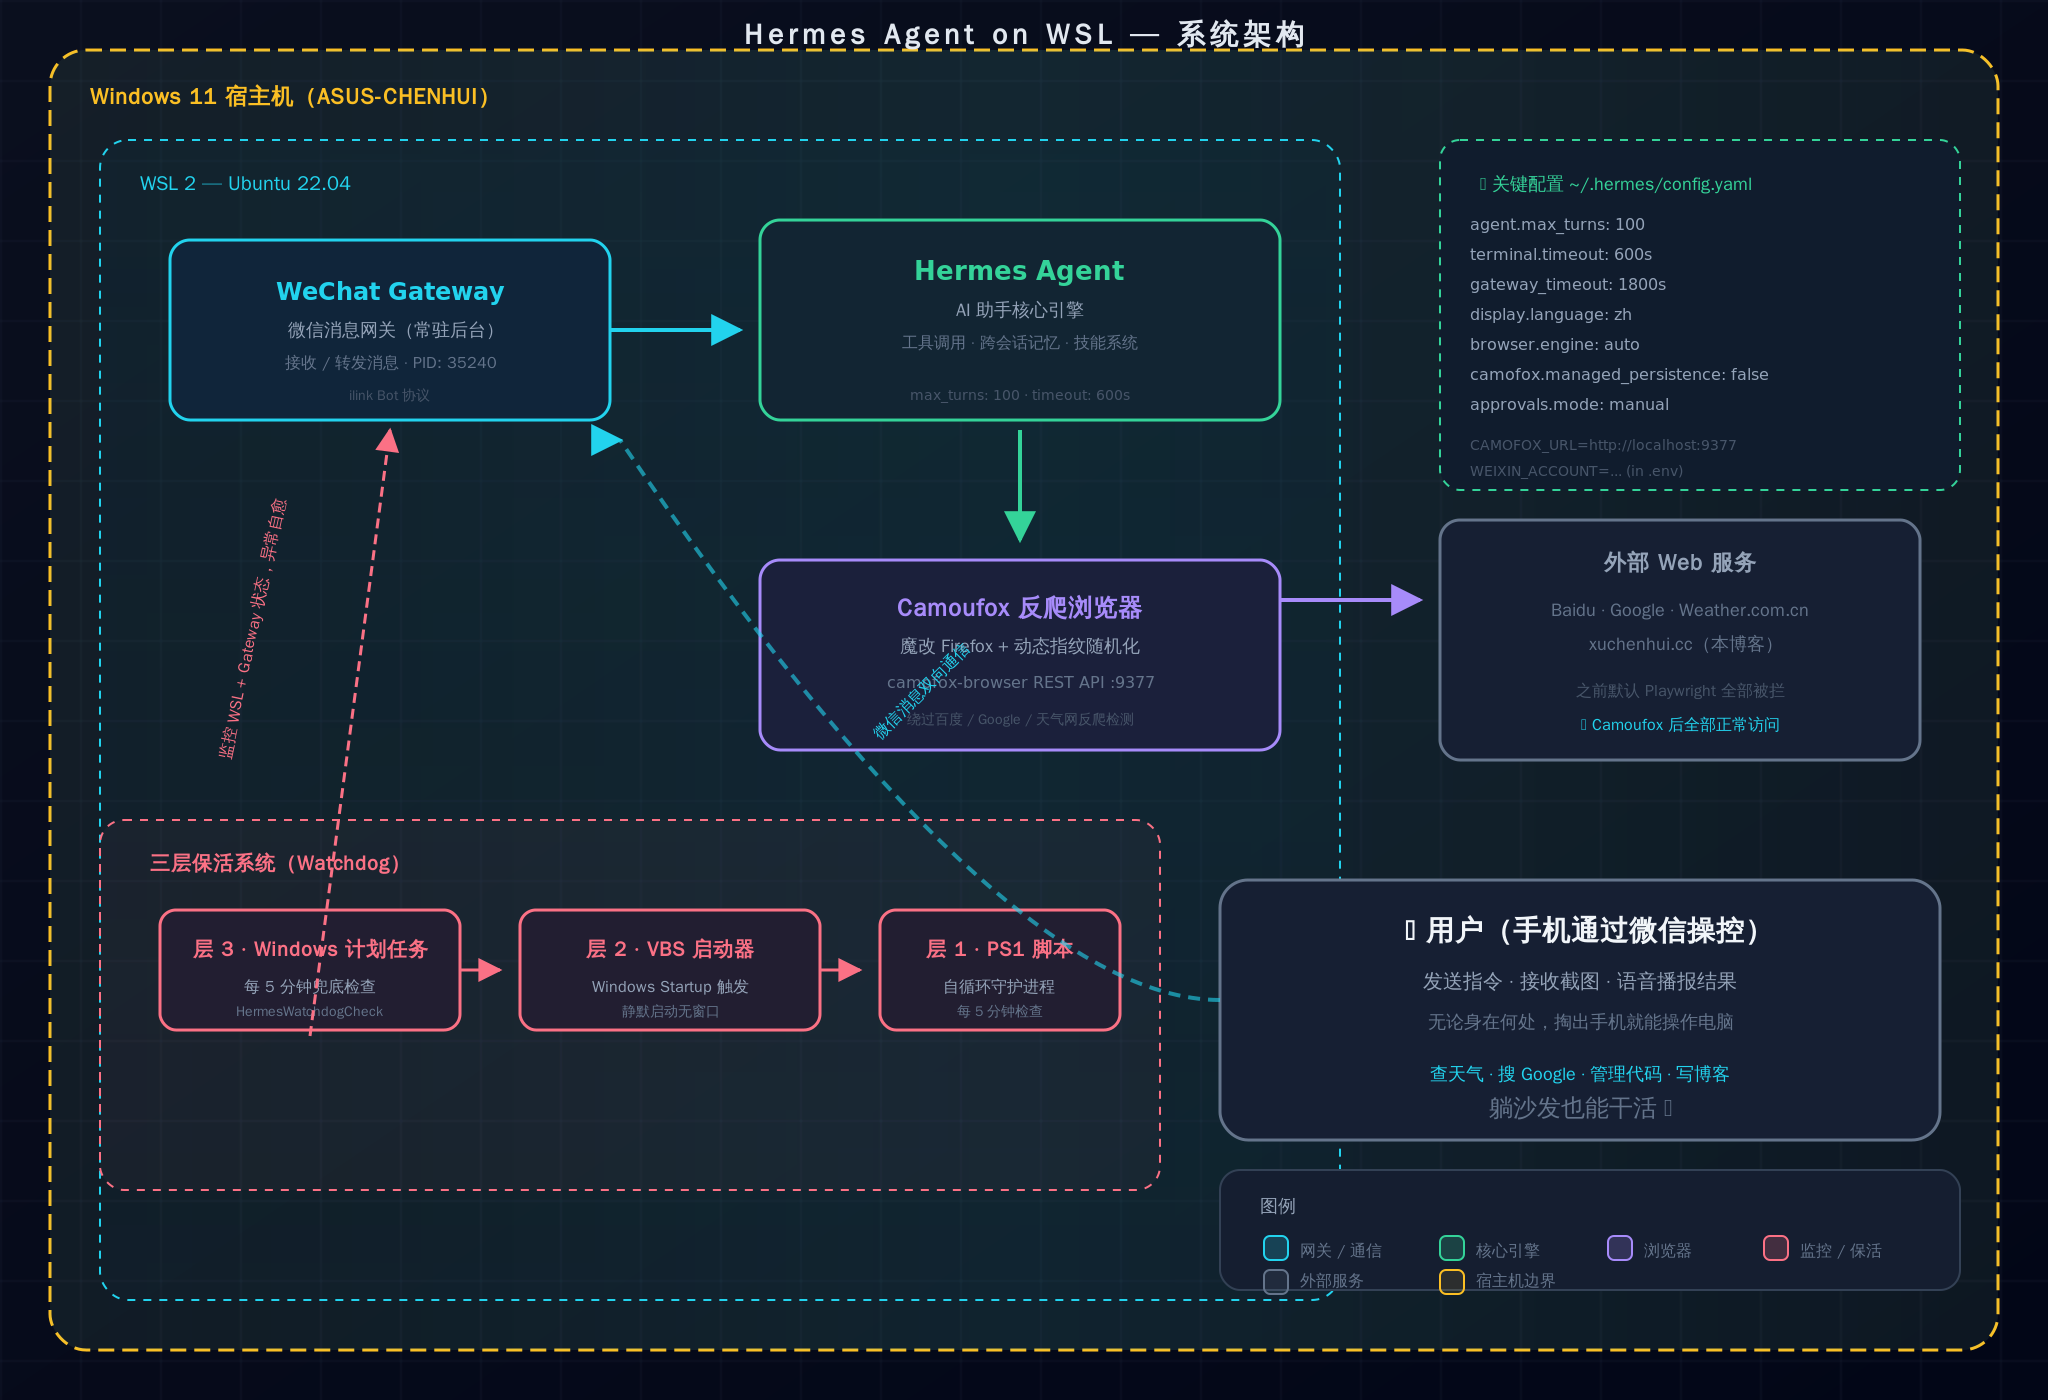
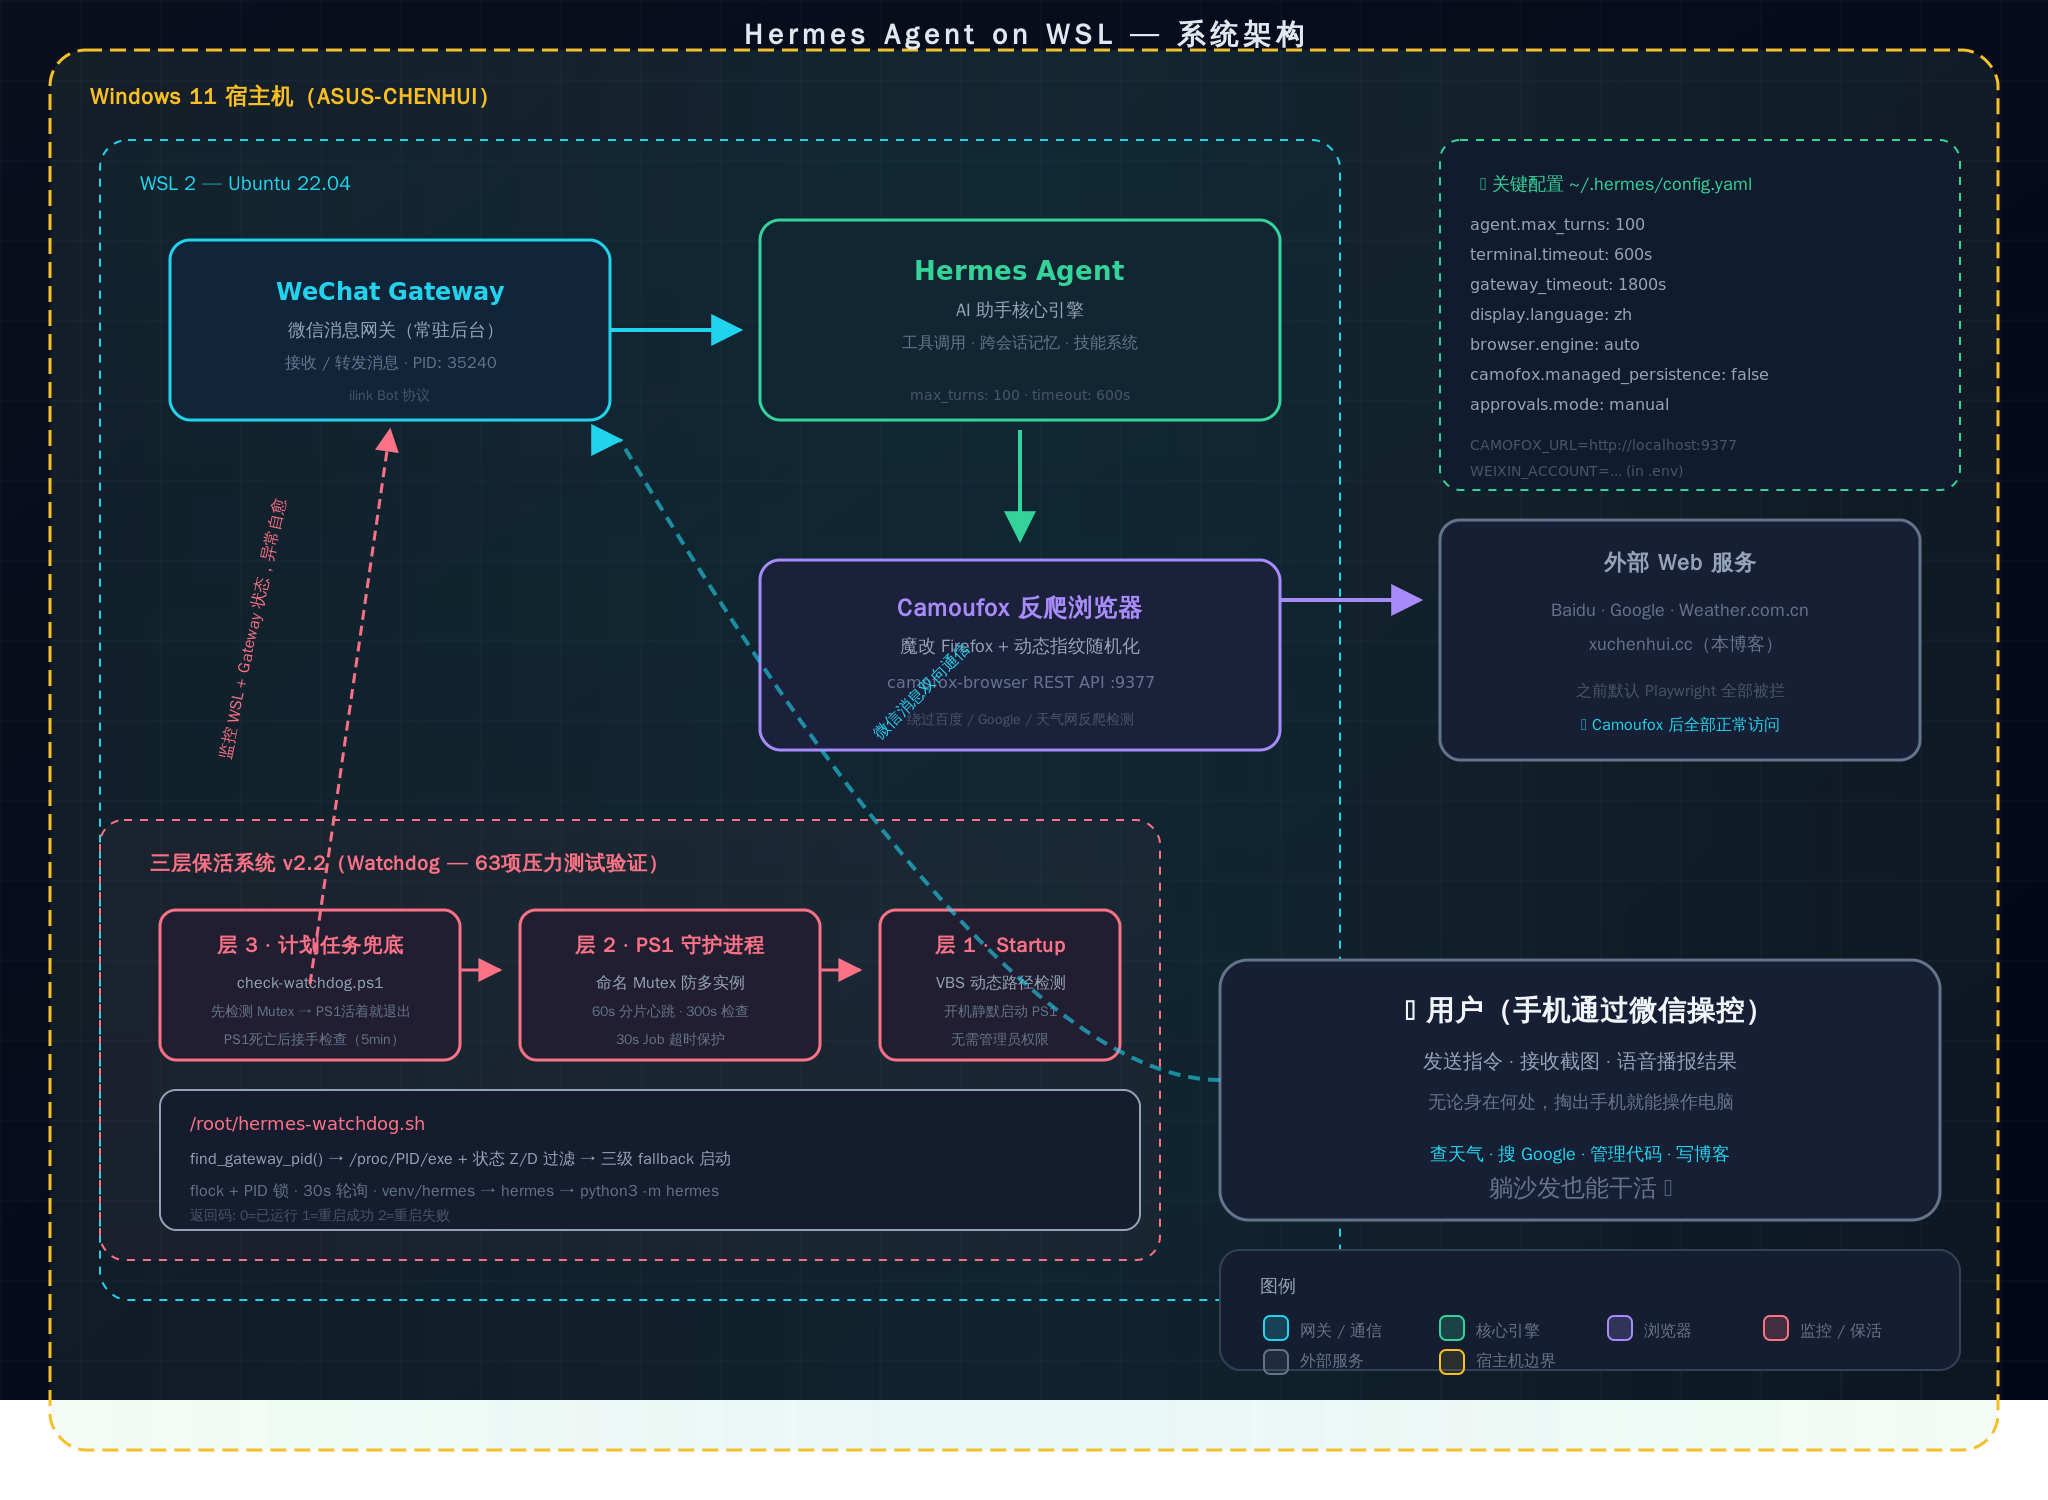
feat: Hermes Agent on WSL 部署指南
- 完整记录 WSL 上部署 Hermes Agent 全过程
- WeChat 微信网关配置
- 三层保活机制 (Startup + PS1 + Task Scheduler)
- Camoufox 反爬浏览器集成
- 彩蛋: AI 自曝模块

diff --git a/src/content/posts/2026-05-15-Hermes-Agent-WSL-Setup.md b/src/content/posts/2026-05-15-Hermes-Agent-WSL-Setup.md
@@ -137,48 +137,119 @@ hermes gateway run
 在 Windows 的启动文件夹里放一个 VBS 脚本, 每次开机自动运行:
 
 ```
-C:\Users\用户名\AppData\Roaming\Microsoft\Windows\Start Menu\Programs\Startup\start-hermes-watchdog.vbs
+C:\Users\<用户名>\AppData\Roaming\Microsoft\Windows\Start Menu\Programs\Startup\start-hermes-watchdog.vbs
 ```
 
-脚本内容很简单, 就是静默启动 PowerShell 守护脚本:
+VBS 脚本使用动态路径检测, 自动找同目录下的 `hermes-watchdog.ps1`, 不需要硬编码路径:
 
 ```text
-CreateObject("WScript.Shell").Run "powershell.exe -ExecutionPolicy Bypass -File D:\HermesSetup\hermes-watchdog.ps1", 0, False
+' 自动检测脚本所在目录，无需硬编码路径
+Set objFSO = CreateObject("Scripting.FileSystemObject")
+Set objShell = CreateObject("Wscript.Shell")
+
+strPath = objFSO.GetParentFolderName(Wscript.ScriptFullName)
+strPS1 = objFSO.BuildPath(strPath, "hermes-watchdog.ps1")
+
+' 参数: 隐藏窗口(0), 不等待(False)
+objShell.Run "powershell.exe -ExecutionPolicy Bypass -WindowStyle Hidden -File """ & strPS1 & """", 0, False
 ```
 
 `0` 这个参数是关键 —— 表示不显示窗口, 后台静默运行.
 
-### 第二层: PowerShell 自循环脚本
+### 第二层: PowerShell 自循环守护脚本
 
-核心逻辑是每隔 5 分钟检查一次:
+核心剧本是 `hermes-watchdog.ps1`, 它每隔 5 分钟调用 WSL 端的 `/root/hermes-watchdog.sh` 检查 Gateway 的状态. 以下是简化版逻辑:
 
 ```powershell
+# 单例锁: 命名 Mutex 防止多实例
+$mutex = New-Object System.Threading.Mutex($false, "HermesWatchdogMutex_$env:USERNAME")
+if (-not $mutex.WaitOne(0)) { exit 0 }
+
 while ($true) {
-    # 检查 WSL 状态
-    $wslStatus = wsl.exe -d Ubuntu -u root -- /root/hermes-watchdog.sh
-    if ($wslStatus -ne 0) {
-        wsl.exe -d Ubuntu
+    # 分片睡眠: 每 60s 写一次心跳, 防止长时间无响应
+    for ($slept = 0; $slept -lt 300; $slept += 60) {
+        Start-Sleep -Seconds 60
+        Get-Date | Out-File $heartbeatFile -Encoding utf8 -Force
     }
-    
-    # 检查 Gateway 进程
-    $gatewayCheck = wsl.exe -d Ubuntu -u root -- pgrep -f "hermes.*gateway"
-    if (-not $gatewayCheck) {
-        wsl.exe -d Ubuntu -u root -- hermes gateway run
-    }
-    
-    Start-Sleep -Seconds 300
+
+    # 带超时的 WSL 调用 (PowerShell Job, 30s 超时)
+    $output, $exitCode = Invoke-WslScript "/root/hermes-watchdog.sh"
+
+    if ($exitCode -eq 1) { Write-Log "Gateway 已重启成功" }
+    if ($exitCode -eq 2) { Write-Log "重启失败, 尝试兜底启动" }
 }
+```
+
+完整的 WSL 端检测脚本 `/root/hermes-watchdog.sh` 负责真正的进程检查与重启:
+
+```bash
+#!/bin/bash
+# 锁: flock + PID 文件, 防多实例也防 inode 替换绕过
+LOCKFILE="/var/run/hermes-watchdog.lock"
+exec 200>"$LOCKFILE"; flock -n 200 || exit 0
+echo "$$" > "$LOCKFILE"
+
+# find_gateway_pid: 遍历 pgrep 结果
+# 用 /proc/PID/exe 确认是 Python 进程 (排除 shell 包装)
+# 用 /proc/PID/status 跳过 Zombie 和 D 状态
+find_gateway_pid() {
+    for pid in $(pgrep -f "hermes gateway run"); do
+        [ ! -d "/proc/$pid" ] && continue
+        state=$(grep -o '^State:\s*[A-Z]' /proc/$pid/status | grep -o '[A-Z]$')
+        case "$state" in Z|D) continue ;; esac
+        exe=$(readlink /proc/$pid/exe)
+        case "$exe" in */python|*/python3|*/python3.*) echo "$pid"; return 0 ;; esac
+    done; return 1
+}
+
+GW_PID=$(find_gateway_pid)
+[ -n "$GW_PID" ] && echo "0" && exit 0  # 正常运行
+
+# 三级 fallback 启动
+VENV="/usr/local/lib/hermes-agent/venv/bin/hermes"
+for cmd in "$VENV" "hermes" "python3 -m hermes"; do
+    nohup $cmd gateway run </dev/null >/dev/null 2>&1 &
+    for i in {1..15}; do
+        sleep 2
+        [ -n "$(find_gateway_pid)" ] && echo "1" && exit 1  # 启动成功
+    done
+done
+echo "2" && exit 2  # 启动失败
 ```
 
 ### 第三层: Windows 计划任务(兜底)
 
-即使 PowerShell 脚本意外退出了, 还有计划任务每 5 分钟再拉起一次:
+即使 PowerShell 脚本意外退出了, 还有两层计划任务兜底:
 
-```batch
-schtasks /Create /SC MINUTE /MO 5 /TN "HermesWatchdogCheck" /TR "..." /F
+```powershell
+# 任务1: 开机启动看门狗 (备用入口)
+$action = New-ScheduledTaskAction -Execute "powershell.exe" `
+    -Argument "-ExecutionPolicy Bypass -WindowStyle Hidden -File `"C:\...\hermes-watchdog.ps1`""
+Register-ScheduledTask -TaskName "HermesWatchdog" -Action $action -Force
+
+# 任务2: 每30分钟兜底检查 (通过独立的 hermes-watchdog-healthcheck.ps1)
+$action = New-ScheduledTaskAction -Execute "powershell.exe" `
+    -Argument "-File `"C:\...\hermes-watchdog-healthcheck.ps1`""
+$trigger = New-ScheduledTaskTrigger -Once -At (Get-Date) `
+    -RepetitionInterval (New-TimeSpan -Minutes 30) `
+    -RepetitionDuration ([TimeSpan]::FromDays(365))
+Register-ScheduledTask -TaskName "HermesWatchdogHealthCheck" -Action $action -Trigger $trigger -Force
 ```
 
-这样三层下来, 即使电脑重启、休眠、甚至脚本崩了, Hermes 都会在 5 分钟内自动恢复. 实测下来, 基本能做到"无感恢复".
+兜底脚本 `hermes-watchdog-healthcheck.ps1` 会先检测 PS1 看门狗的 Mutex 是否存活——如果 PS1 还活着就直接退出, 不浪费资源. 只有检测到 PS1 死亡后, 才会接手检查 Gateway.
+
+### 全链路故障恢复
+
+这三层下来, 我做了两轮共 63 项压力测试 + 攻击测试, 包括:
+
+- **kill -9 Gateway**: 看门狗检测到进程死亡, 自动重启 ✅ (实测 PID 从 287817 恢复到 290825)
+- **pgrep 误匹配**: 修复为通过 `/proc/PID/exe` 确认 Python 进程, 排除 bash 包装进程
+- **PS1 崩溃**: 计划任务检测到 Mutex 释放后接管, 5 分钟内恢复
+- **锁文件 inode 替换**: flock + PID 文件双重保护, 防绕过
+- **僵尸 / D 状态进程**: `/proc/PID/status` 状态检查, 跳过不可用进程
+- **venv 二进制被删**: 三级 fallback (`venv/hermes` → `hermes` → `python3 -m hermes`)
+
+即使电脑重启、休眠、甚至脚本崩了, Hermes 都会在 5 分钟内自动恢复. 实测下来, 基本能做到"无感恢复".
 
 ## 5. Camoufox 反爬浏览器
 